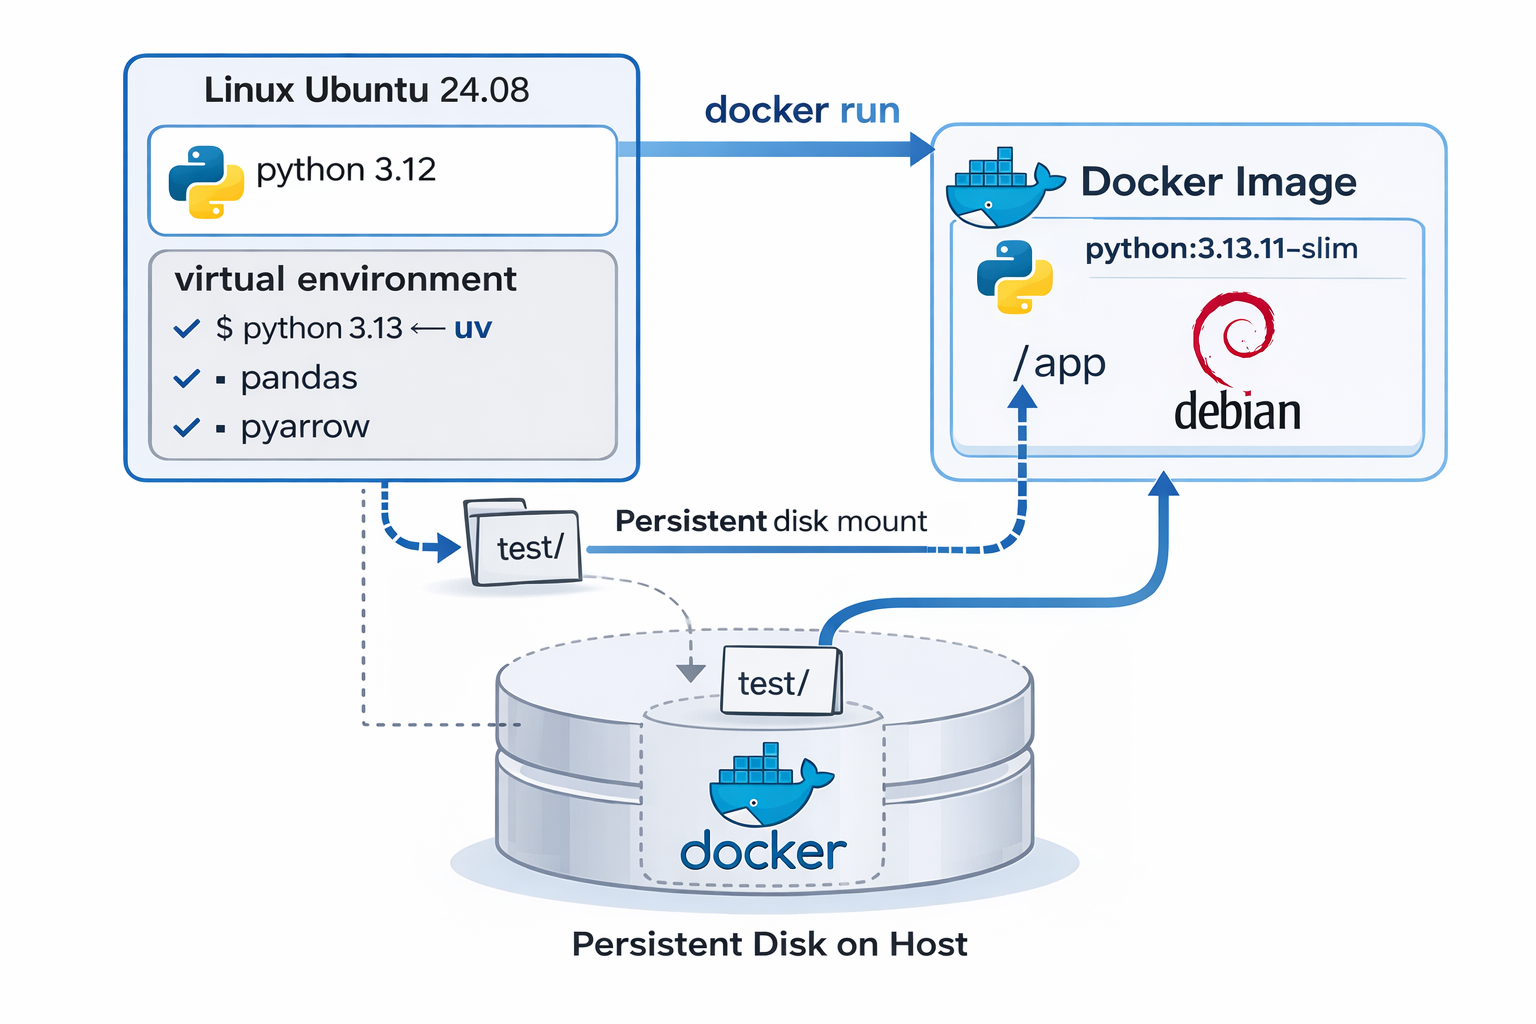
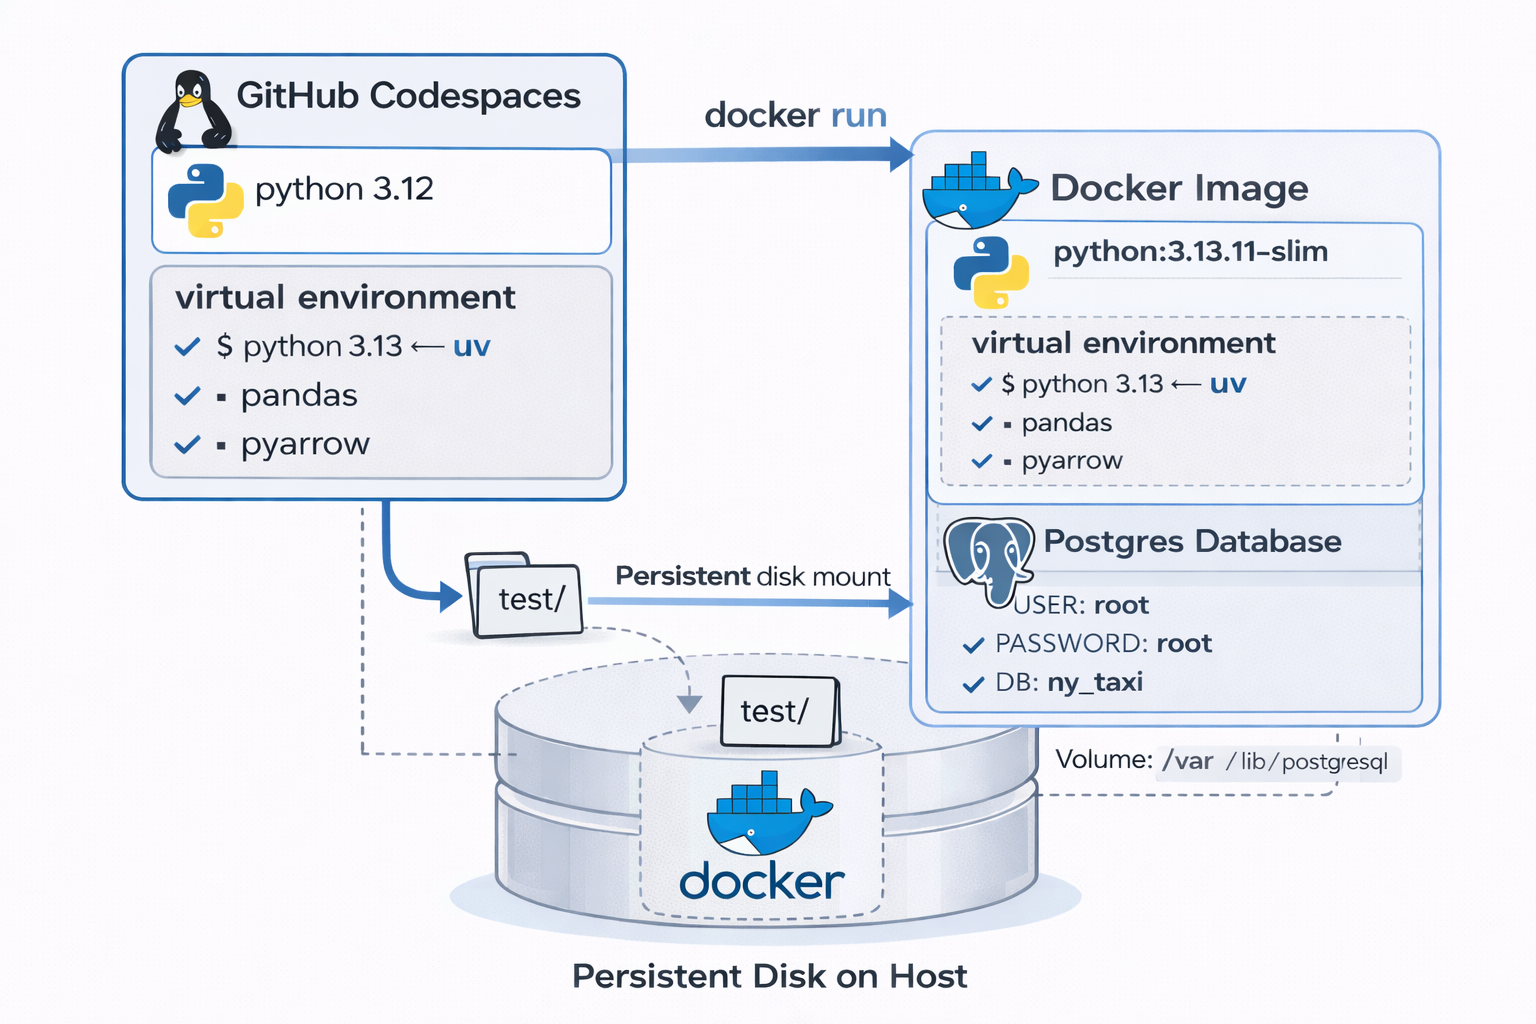
docs: updated doc 02

Changed region(s): [[0.0625, 0.0312, 0.9688, 0.9688], [0.2188, 0.6875, 0.25, 0.7188]]

diff --git a/01-docker/guide/03_docker-pipeline-sql.md b/01-docker/guide/03_docker-pipeline-sql.md
@@ -1,0 +1,37 @@
+## Dockerize
+
+### Dockerized Data Pipeline
+
+#### Architecture Overview
+
+
+The diagram below illustrates the containerized workflow, where a Docker container runs a Python environment (managed with `uv`) and mounts a persistent host directory for data persistence. <br>
+<img src="../screenshots/03/00_Concept.png" width="50%"> <br>
+
+```bash
+# Start with slim Python 3.13 image
+FROM python:3.13.10-slim
+
+# Copy uv binary from official uv image (multi-stage build pattern)
+COPY --from=ghcr.io/astral-sh/uv:latest /uv /bin/
+
+# Set working directory
+WORKDIR /app
+
+# Add virtual environment to PATH so we can use installed packages
+ENV PATH="/app/.venv/bin:$PATH"
+
+# Copy dependency files first (better layer caching)
+COPY "pyproject.toml" "uv.lock" ".python-version" ./
+# Install dependencies from lock file (ensures reproducible builds)
+RUN uv sync --locked
+
+# Copy application code
+COPY pipeline.py pipeline.py
+
+# Set entry point
+ENTRYPOINT ["python", "pipeline.py"]
+
+```
+
+### Dockerized PostgreSQL

diff --git a/01-docker/guide/02_Data-Pipeline.md b/01-docker/guide/02_Data-Pipeline.md
@@ -1,11 +1,5 @@
 ## Data Pipeline
 
-### Architecture Overview
-
-
-The diagram below illustrates the containerized workflow, where a Docker container runs a Python environment (managed with `uv`) and mounts a persistent host directory for data persistence. <br>
-<img src="../screenshots/02/0-docker-concept.png" width="50%"> <br>
-
 ### Install dependencies
 
 This project requires pandas, but it isn’t included by default. If you want to run and test the code locally before using the container, you’ll need to install the required Python packages.
